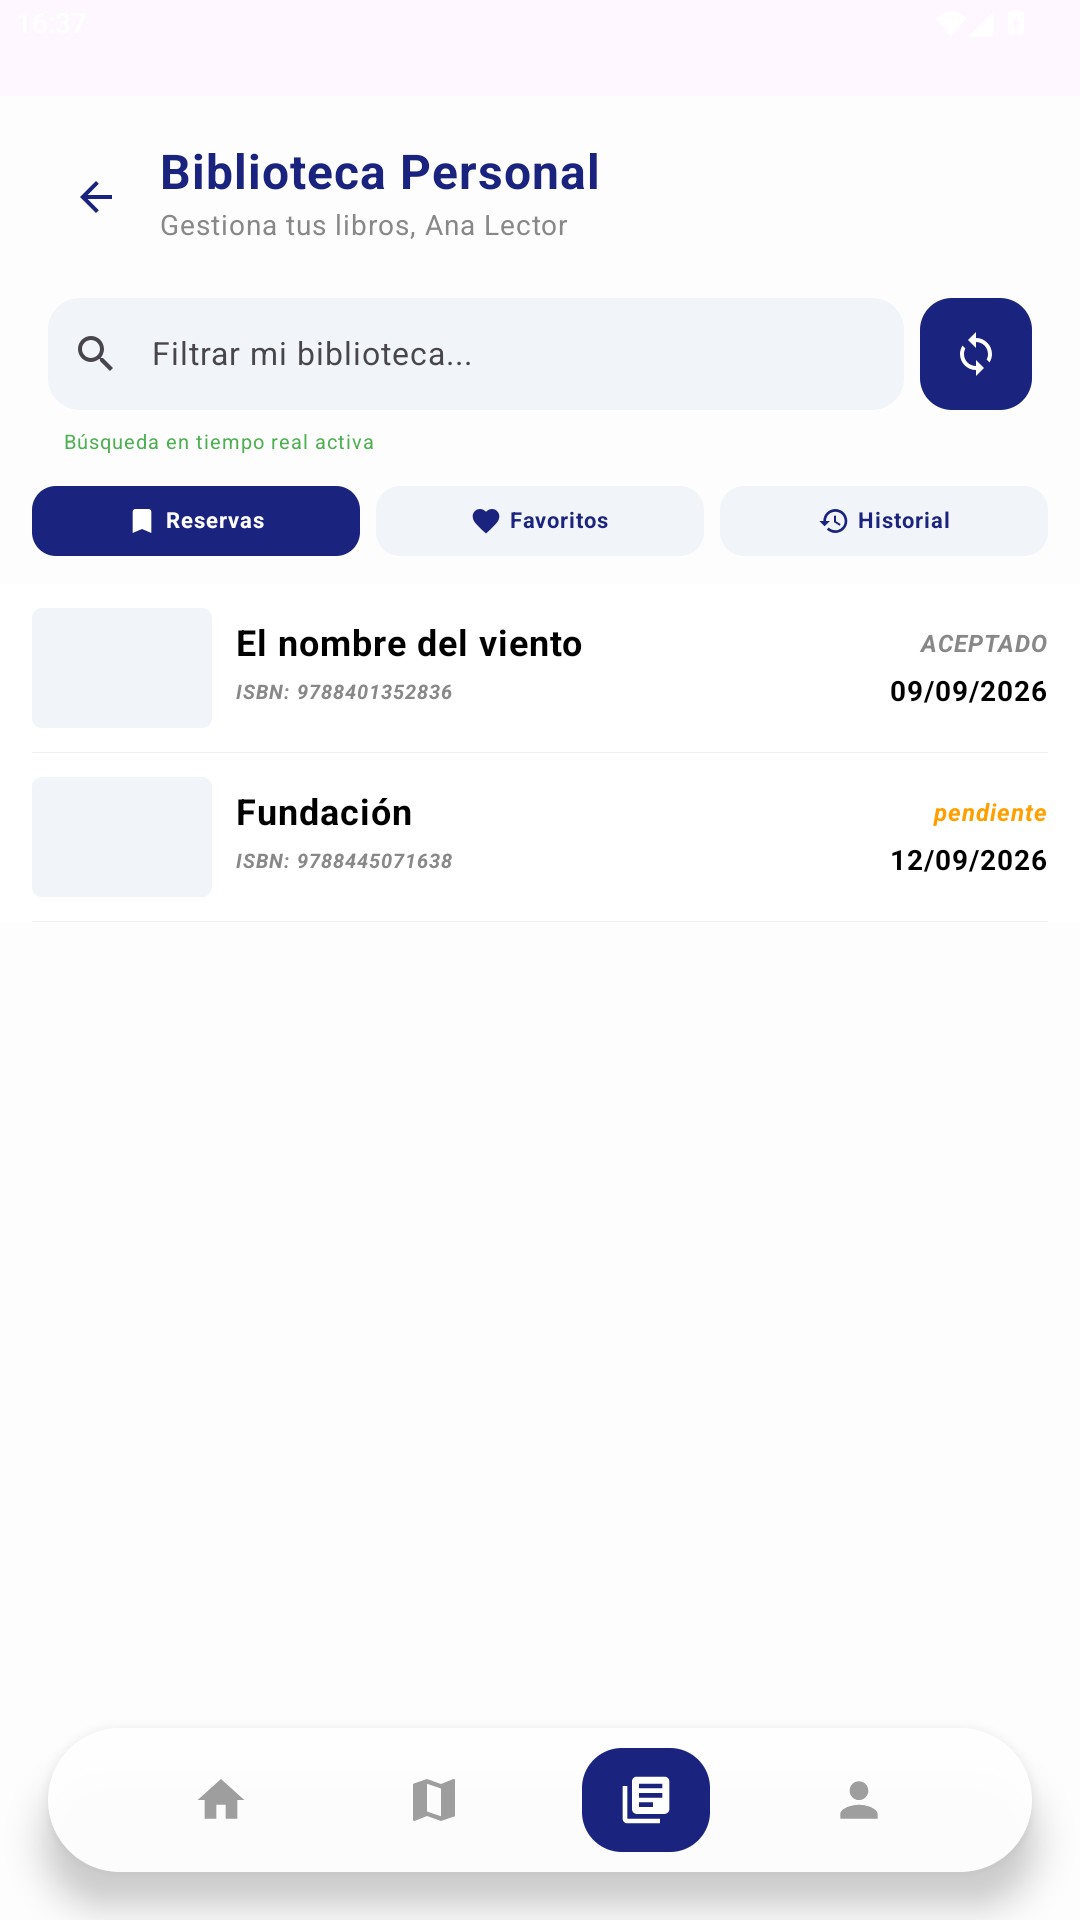
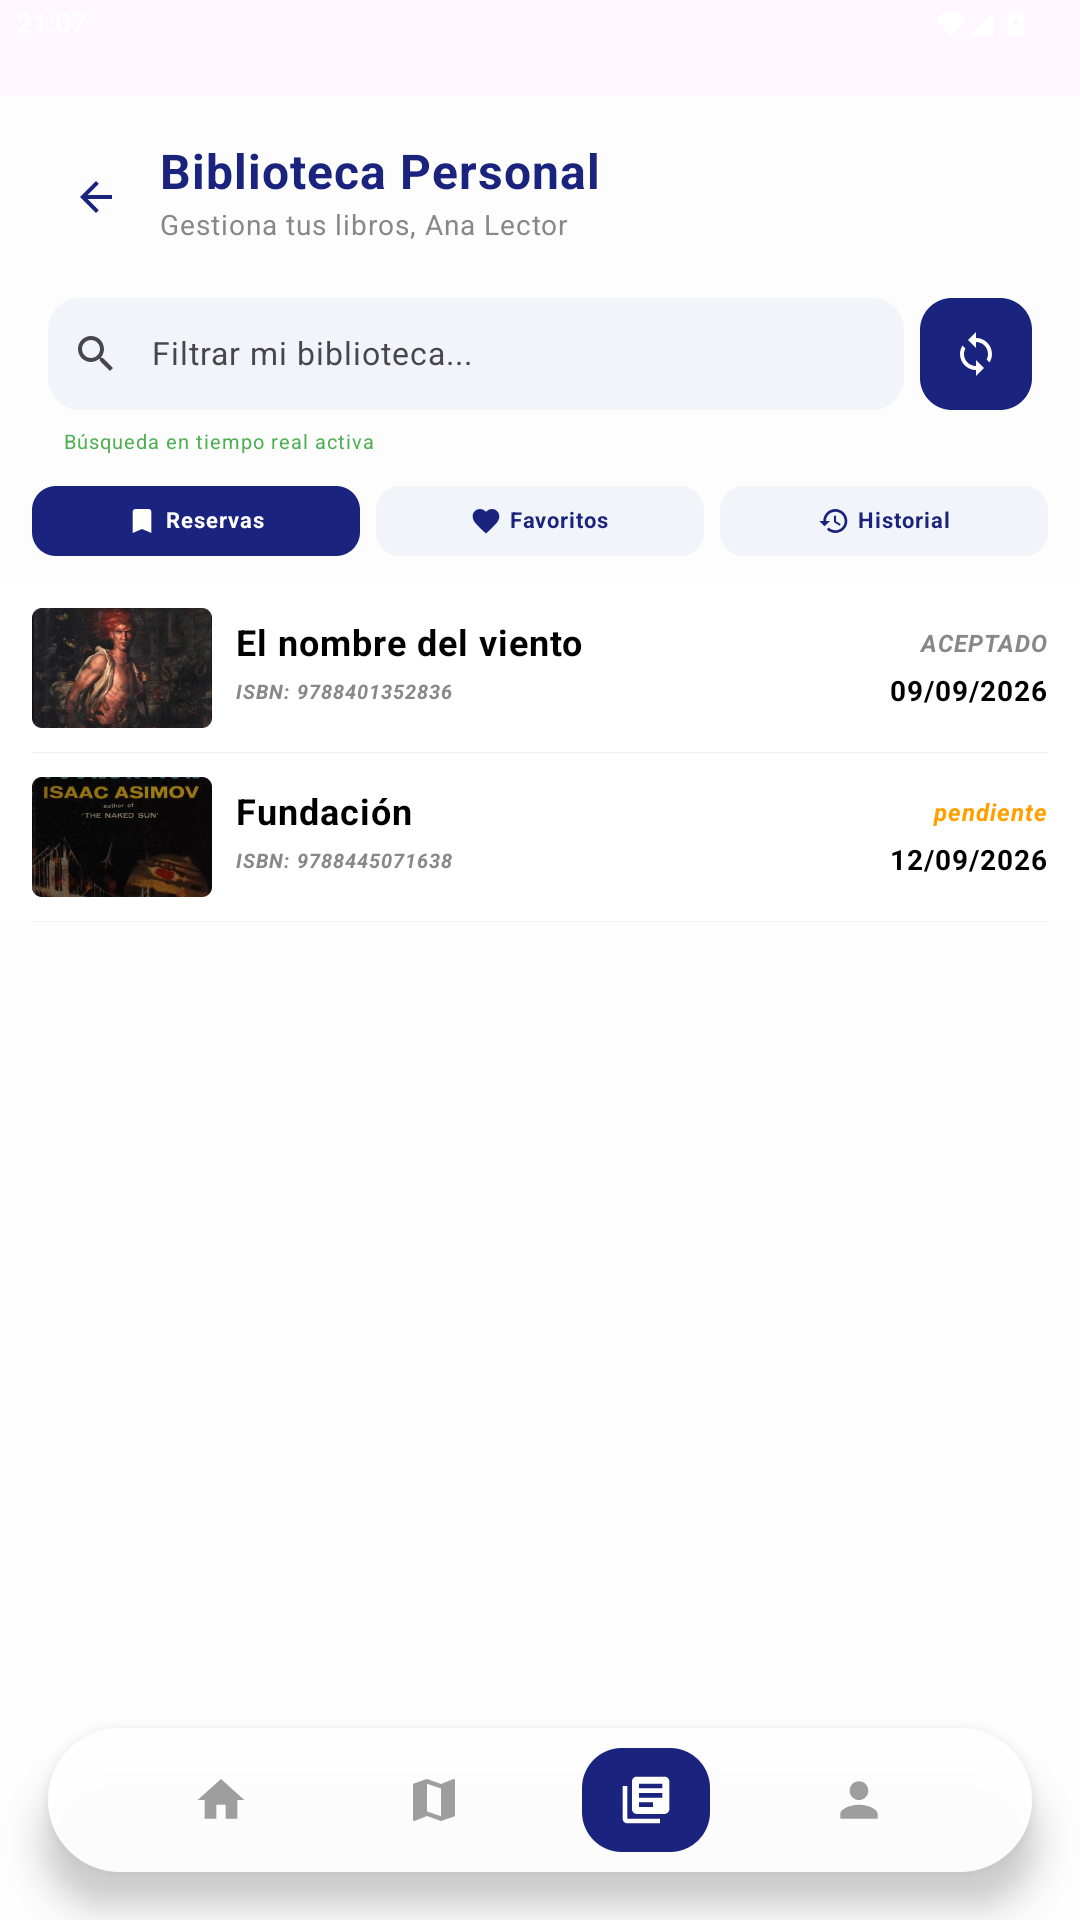
Fix blank book covers: seed script never set imagen_url
Screenshots were showing empty cover placeholders because the demo
seed data left imagen_url as an empty string for all 3 books. Coil
renders nothing when the model is null/empty. Added real Open Library
cover URLs and recaptured both screenshots to confirm.

Changed region(s): [[0.0306, 0.3125, 0.2139, 0.4688]]

diff --git a/scripts/seed-emulator/seed.js b/scripts/seed-emulator/seed.js
@@ -64,7 +64,7 @@ const LIBROS = [
     isbn: "9788401352836",
     descripcion_corta: "La historia de Kvothe, contada por él mismo.",
     descripcion_larga: "Un músico y mago legendario narra su propia leyenda, desde su infancia en una compañía itinerante hasta sus años en la Universidad.",
-    imagen_url: "",
+    imagen_url: "https://covers.openlibrary.org/b/id/11480483-L.jpg",
     creado_por: "seed-script",
     categoria_id: "cat-fantasia",
     idioma: "es",
@@ -78,7 +78,7 @@ const LIBROS = [
     isbn: "9788445071638",
     descripcion_corta: "El imperio galáctico se desmorona.",
     descripcion_larga: "Hari Seldon predice la caída del Imperio Galáctico y funda la Fundación para acortar la era de barbarie que seguirá.",
-    imagen_url: "",
+    imagen_url: "https://covers.openlibrary.org/b/id/14612610-L.jpg",
     creado_por: "seed-script",
     categoria_id: "cat-ciencia-ficcion",
     idioma: "es",
@@ -92,7 +92,7 @@ const LIBROS = [
     isbn: "9788499926223",
     descripcion_corta: "Una breve historia de la humanidad.",
     descripcion_larga: "Un recorrido por la evolución humana, desde la revolución cognitiva hasta la revolución científica.",
-    imagen_url: "",
+    imagen_url: "https://covers.openlibrary.org/b/id/8634250-L.jpg",
     creado_por: "seed-script",
     categoria_id: "cat-historia",
     idioma: "es",
